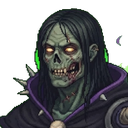
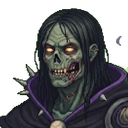
feat: a portrait for every race, class and sex of the Horde
The owner's 42 portraits of 8 October (128 px, transparent): every combination of the Horde's races,
classes and sexes, undead paladins included. They replace the 9 first ones (the same drawings,
cleaner) on the website and, through npm run generate, in the addon; a character gets its own, the
nearest one only when the addon did not tell its race or sex.

Unit tests: yes, the list holds every combination, and each character gets its own portrait.

Changed region(s): [[0.25, 0.375, 0.3125, 0.5625], [0.8125, 0.375, 0.8438, 0.5], [0.9375, 0.5, 1.0, 0.5625]]

diff --git a/packages/design/src/avatars.test.ts b/packages/design/src/avatars.test.ts
@@ -4,15 +4,29 @@ import { AVATARS, avatarName } from "./avatars.ts";
 import { ADDON_AVATARS, SITE_AVATARS } from "./files.ts";
 
 describe("avatars", () => {
+  it("has every combination of the Horde's races, classes and sexes", () => {
+    const horde = {
+      mv: ["demoniste", "guerrier", "mage", "paladin", "pretre", "voleur"],
+      orc: ["chaman", "chasseur", "demoniste", "guerrier", "voleur"],
+      tauren: ["chaman", "chasseur", "druide", "guerrier"],
+      troll: ["chaman", "chasseur", "guerrier", "mage", "pretre", "voleur"],
+    };
+    const all = Object.entries(horde).flatMap(([race, classes]) =>
+      classes.flatMap((name) => [`${race}_${name}_f`, `${race}_${name}_m`]),
+    );
+    expect([...AVATARS].sort()).toEqual(all.sort());
+  });
+
   it("takes the character's own portrait, else borrows the nearest one (§8)", () => {
     expect(avatarName("PRIEST", "Scourge", "female")).toBe("mv_pretre_f");
-    // Same race and class, other sex.
-    expect(avatarName("PRIEST", "Scourge", "male")).toBe("mv_pretre_f");
-    // Same class, other race.
-    expect(avatarName("ROGUE", "Orc", "male")).toBe("mv_voleur_m");
-    expect(avatarName("MAGE")).toBe("troll_mage_m");
-    // Same race, unknown class.
-    expect(avatarName("DEATHKNIGHT", "Tauren", "male")).toBe("tauren_chasseur_f");
+    expect(avatarName("PRIEST", "Scourge", "male")).toBe("mv_pretre_m");
+    expect(avatarName("ROGUE", "Orc", "female")).toBe("orc_voleur_f");
+    // Without the sex: same race and class.
+    expect(avatarName("DRUID", "Tauren")).toBe("tauren_druide_f");
+    // Without the race: same class.
+    expect(avatarName("MAGE")).toBe("mv_mage_f");
+    // An unknown class: same race.
+    expect(avatarName("DEATHKNIGHT", "Tauren", "male")).toBe("tauren_chaman_f");
     expect(avatarName("DEATHKNIGHT")).toBeUndefined();
   });
 

diff --git a/packages/design/src/avatars.ts b/packages/design/src/avatars.ts
@@ -1,17 +1,51 @@
 /**
- * The pixel portraits (docs/design/VXV_Design_Spec.md §8), named race_class_sex. A few are drawn; a character
- * without its own borrows the nearest: same race and class, then same class, then same race.
+ * The pixel portraits (docs/design/VXV_Design_Spec.md §8), named race_class_sex: every combination of the Horde's
+ * races, classes and sexes (undead paladins included). A character the addon did not describe borrows the nearest:
+ * same race and class, then same class, then same race.
  */
 export const AVATARS = [
+  "mv_demoniste_f",
   "mv_demoniste_m",
+  "mv_guerrier_f",
+  "mv_guerrier_m",
+  "mv_mage_f",
+  "mv_mage_m",
+  "mv_paladin_f",
   "mv_paladin_m",
   "mv_pretre_f",
+  "mv_pretre_m",
+  "mv_voleur_f",
   "mv_voleur_m",
+  "orc_chaman_f",
   "orc_chaman_m",
+  "orc_chasseur_f",
+  "orc_chasseur_m",
+  "orc_demoniste_f",
+  "orc_demoniste_m",
+  "orc_guerrier_f",
   "orc_guerrier_m",
+  "orc_voleur_f",
+  "orc_voleur_m",
+  "tauren_chaman_f",
+  "tauren_chaman_m",
   "tauren_chasseur_f",
+  "tauren_chasseur_m",
+  "tauren_druide_f",
   "tauren_druide_m",
+  "tauren_guerrier_f",
+  "tauren_guerrier_m",
+  "troll_chaman_f",
+  "troll_chaman_m",
+  "troll_chasseur_f",
+  "troll_chasseur_m",
+  "troll_guerrier_f",
+  "troll_guerrier_m",
+  "troll_mage_f",
   "troll_mage_m",
+  "troll_pretre_f",
+  "troll_pretre_m",
+  "troll_voleur_f",
+  "troll_voleur_m",
 ] as const;
 
 /** The game's race tokens (UnitRace) and class tokens, as the portraits' names write them. */

diff --git a/docs/design/VXV_Design_Spec.md b/docs/design/VXV_Design_Spec.md
@@ -328,12 +328,12 @@ Fenêtre **420 × 600**, cadre 3 anneaux. En-tête compact (emblème 24px, « mo
 
 ## 8. Avatars
 
-- Portraits pixel art **par race × classe × sexe** (42 combinaisons au total, Horde + paladin MV). 9 livrés : `assets/avatars/` (`*_128.png` pour l'UI, `*.png` source détourée ~560px).
+- Portraits pixel art **par race × classe × sexe** (42 combinaisons au total, Horde + paladin MV), tous livrés le 8 octobre (128 px, fond transparent) : `apps/web/public/images/avatars/`, copiés dans l'addon par `npm run generate`.
 - **Format** : carré 1:1, buste serré (tête dans la moitié haute, vue 3/4), fond transparent, contour 1px `#0D0912`, une gemme améthyste sur l'équipement (signature VXV).
 - **Cadre** = toujours la **couleur de classe du joueur** (même si l'avatar est emprunté) ; fond derrière l'avatar `#141828`.
 - Tailles : 32px (listes), 44px (inscription), 72px (podium), 118px (deathroll). Toujours `image-rendering: pixelated` / filtre NEAREST.
 - **Repli** quand l'avatar exact n'existe pas : (1) même race + classe, autre sexe → (2) même classe, autre race → (3) même race, autre classe. Le sexe/race/classe viennent de `UnitRace`, `UnitSex`, `UnitClass` (déjà connus par l'addon).
-- Fichiers à nommer `race_classe_sexe.png` (ex. `orc_chaman_m.png`) ; les 9 actuels sont à renommer selon cette convention (chasseuse taurène et prêtresse MV = `_f`).
+- Fichiers nommés `race_classe_sexe.png` (ex. `orc_chaman_m.png`).
 
 ---
 
